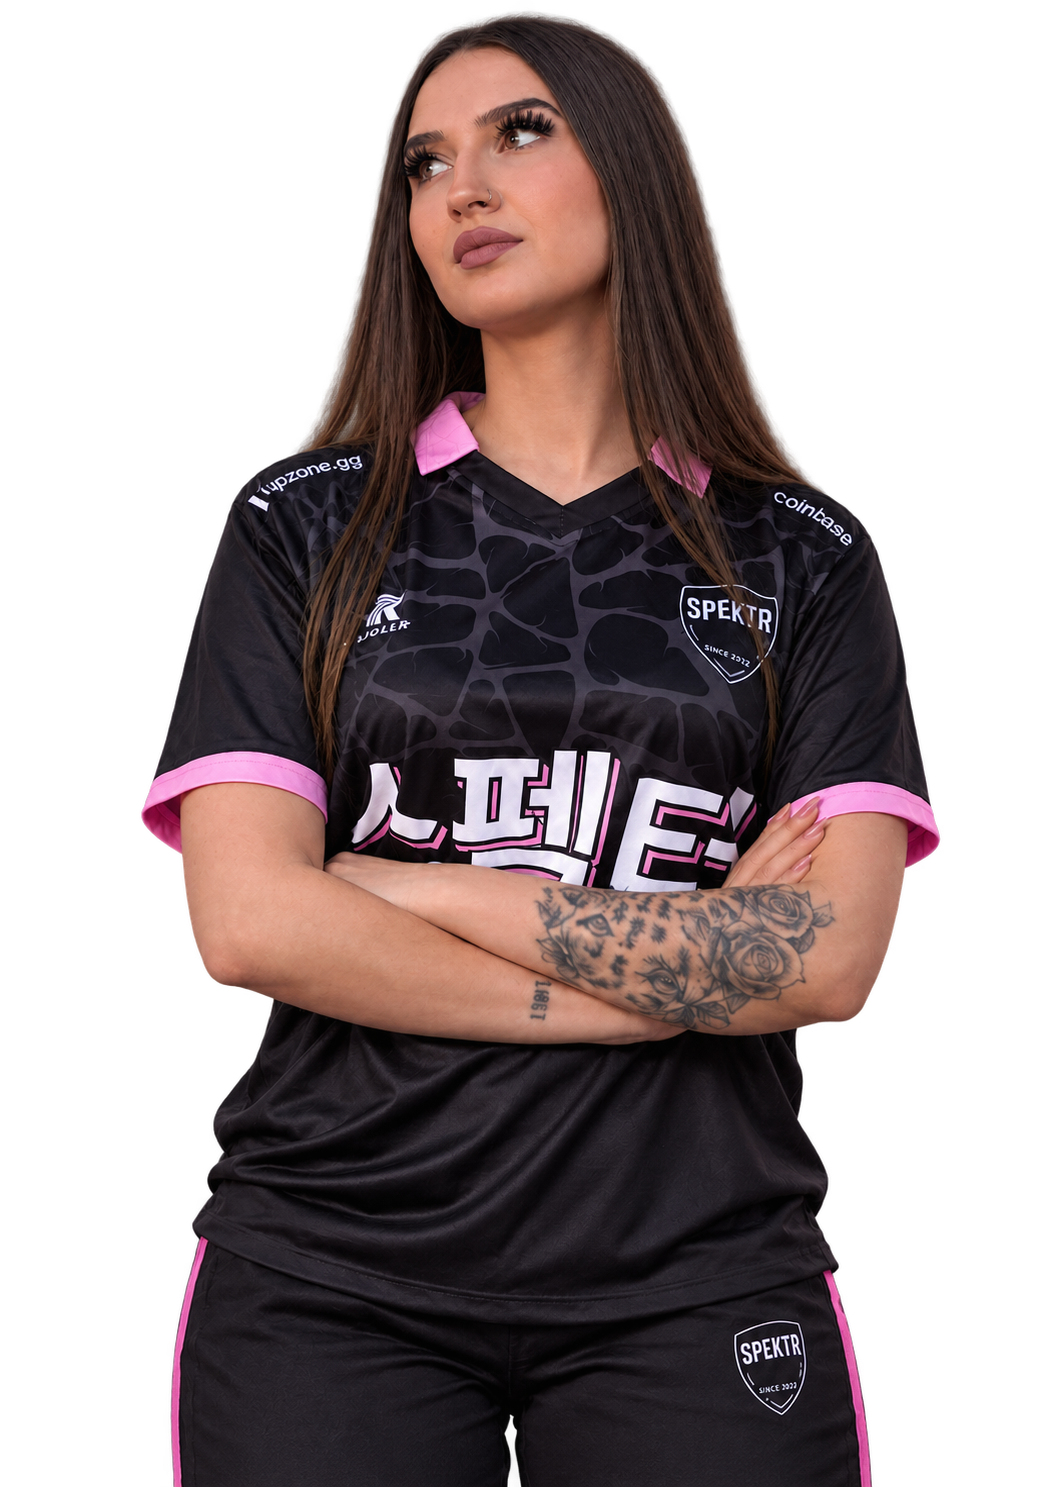
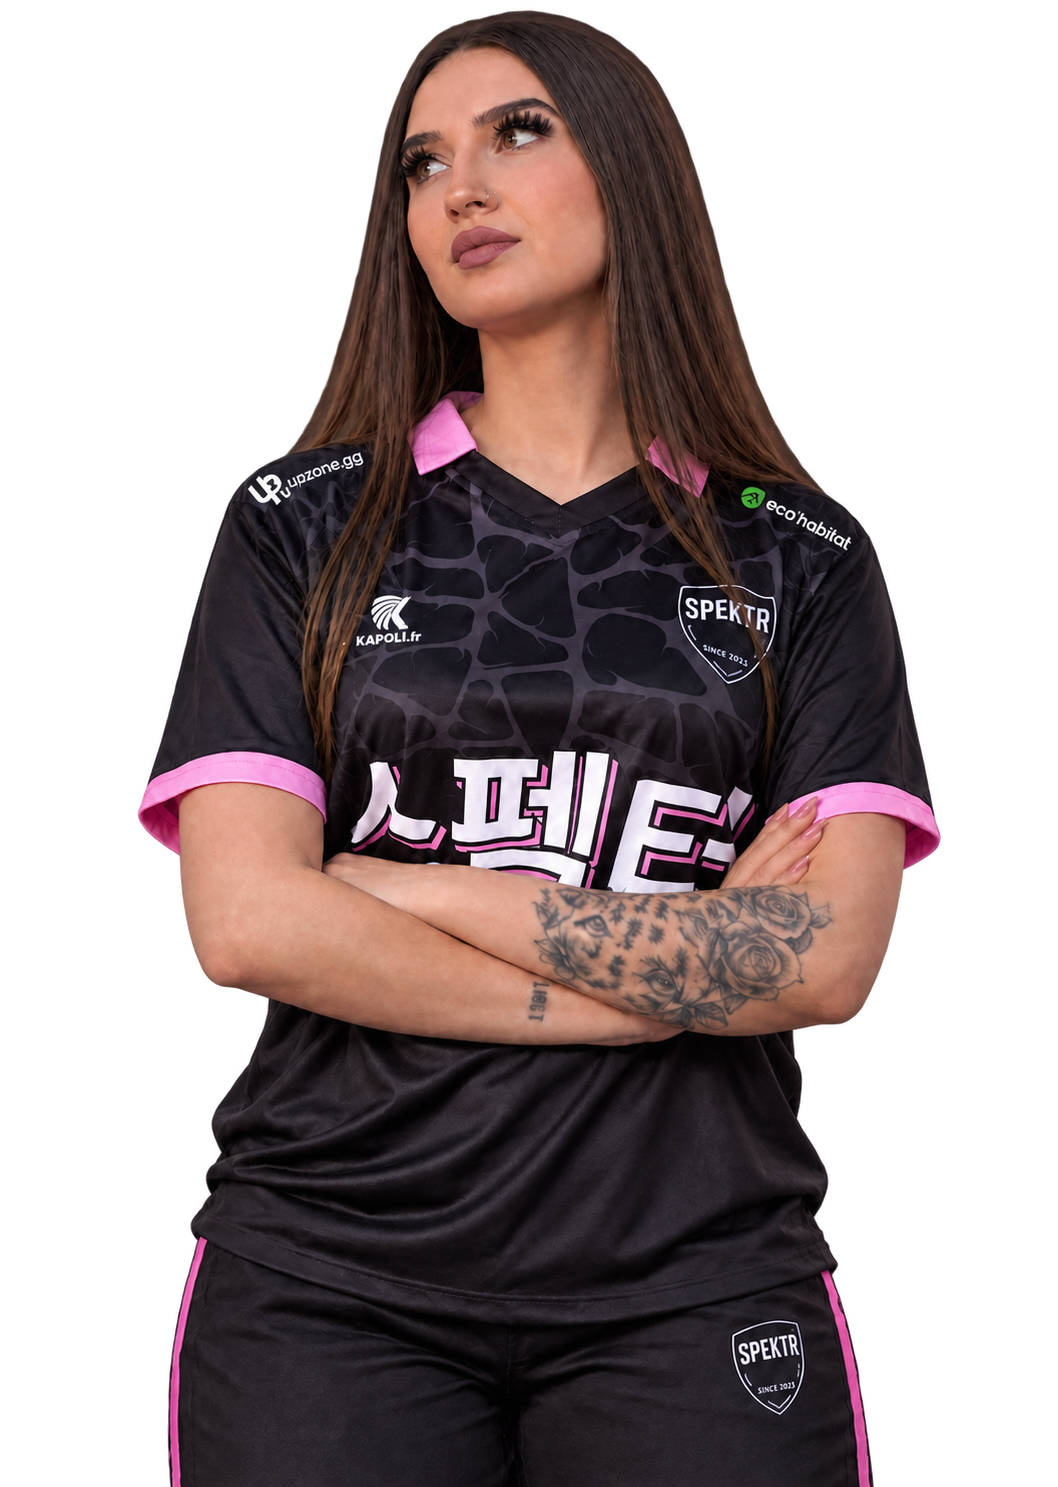
Correct jersey sponsors on campaign player

diff --git a/shop.html b/shop.html
@@ -26,7 +26,7 @@
         <div class="jersey-campaign-brand" aria-hidden="true"><span class="jersey-campaign-shield">S</span><span>SPEKTR<br>COLLECTION 2027</span></div>
         <div class="jersey-campaign-art" aria-label="Le nouveau maillot Spektr 2027 présenté par deux joueurs, de face et de dos">
           <img class="campaign-player campaign-player-man" src="assets/jersey-campaign-player-man.png" alt="Joueur portant le maillot Spektr 2027">
-          <img class="campaign-player campaign-player-woman" src="assets/jersey-campaign-player-woman.png" alt="Joueuse portant le maillot Spektr 2027">
+          <img class="campaign-player campaign-player-woman" src="assets/jersey-campaign-player-woman.png?v=sponsors2" alt="Joueuse portant le maillot Spektr 2027">
           <img class="campaign-shirt campaign-shirt-back" src="assets/product-mw4-reveal-back.png?v=source3" alt="Dos du maillot Spektr 2027">
           <img class="campaign-shirt campaign-shirt-front" src="assets/product-mw4-reveal-front.png?v=source3" alt="Face du maillot Spektr 2027">
         </div>
